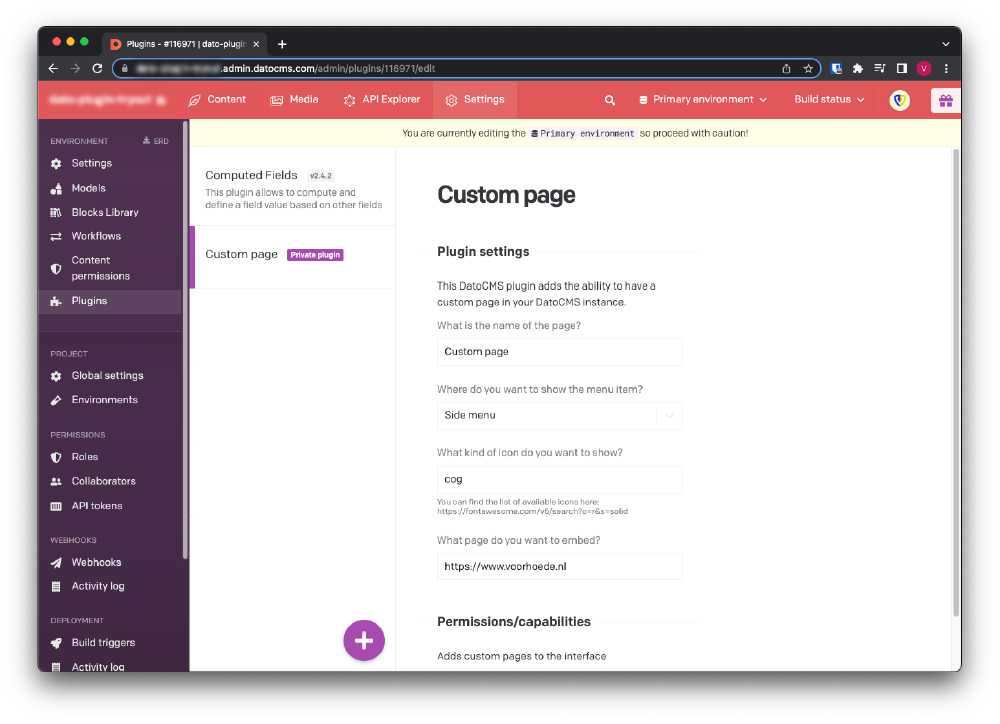
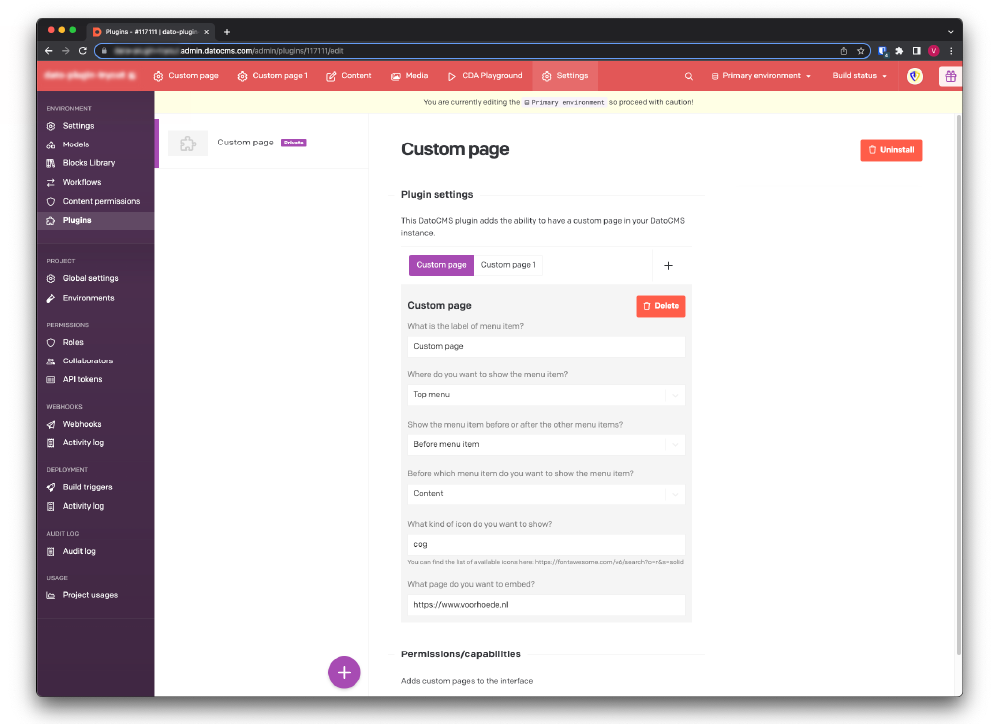
feat(README.md): update readme, package.json and docs

Changed region(s): [[0.031, 0.0, 0.992, 1.0], [0.403, 0.2431, 0.682, 0.4862], [0.651, 0.3039, 0.682, 0.3343]]

diff --git a/README.md b/README.md
@@ -1,15 +1,16 @@
 # DatoCMS plugin: Custom page
 
-**This DatoCMS plugin adds the ability to have a custom page in your DatoCMS instance. This page can be anything and will be rendered inside an iframe in your DatoCMS instance. With custom placement of the menu items and ability to add any page you have the freedom to add any page to your DatoCMS instance.**
+**This DatoCMS plugin adds the ability to have custom pages in your DatoCMS instance. These pages can be anything and will be rendered inside an iframe in your DatoCMS instance. With custom placement of the menu items and ability to add any page you have the freedom to add any page to your DatoCMS instance.**
 
 ![](https://github.com/voorhoede/datocms-plugin-custom-page/raw/main/docs/preview.png)
 
 ## Features
 
-* Custom page
+* Custom pages
+* Multiple pages
 * Custom documentation
 * Custom menu item
-* Choose the location of a menu item
+* Choose the placement of a menu item
 
 ## Configuration
 
@@ -18,7 +19,10 @@ First add this plugin via DatoCMS Settings > Plugins > Add (`/admin/plugins/new`
 ### Plugin settings
 
 For this plugin you can configure global settings to make the plugin behave as you want.
+
 ![](https://github.com/voorhoede/datocms-plugin-custom-page/raw/main/docs/custom-page-settings.png)
+
+By clicking on the `+` button you can add a page and have multiple custom pages in your DatoCMS instance.
 
 #### Location of the menu item
 *Where do you want to show the menu item?*
@@ -29,12 +33,15 @@ You can choose between
 * Settings menu
 
 **Top menu** will show the menu item as first item in the top navigation bar
+
 ![](https://github.com/voorhoede/datocms-plugin-custom-page/raw/main/docs/custom-page-top-menu.png)
 
 **Side menu** will show the menu item as first item in the sidebar on the content pages
+
 ![](https://github.com/voorhoede/datocms-plugin-custom-page/raw/main/docs/custom-page-sidebar.png)
 
 **Settings menu** will show the menu item as first item in the sidebar on the setting pages
+
 ![](https://github.com/voorhoede/datocms-plugin-custom-page/raw/main/docs/custom-page-sidebar-settings.png)
 
 #### Before or after placement of the menu item
